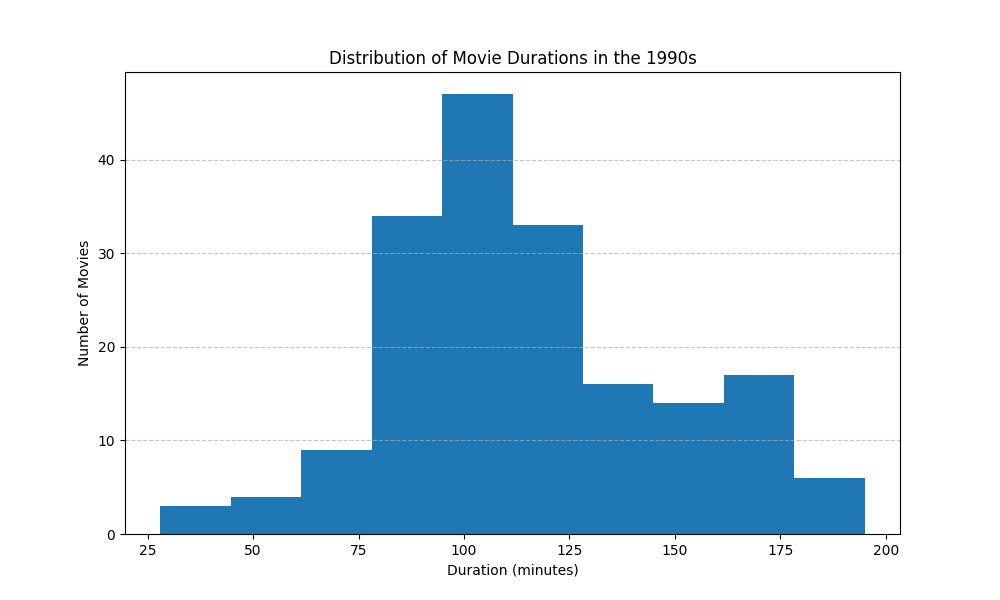
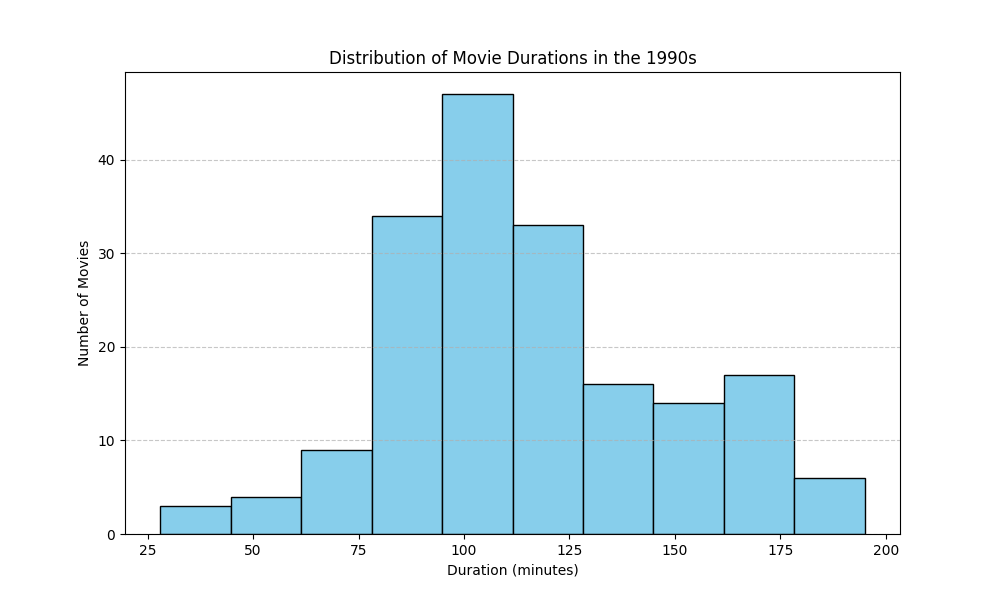
Udating the color of the graphs to skyblue with black edges.

Changed region(s): [[0.155, 0.15, 0.868, 0.9]]

diff --git a/netflix_project.py b/netflix_project.py
@@ -27,7 +27,7 @@ plt.show()
 
 # Visualize the duration column to see the distribution of the 1990s decade
 plt.figure(figsize=(10, 6))
-plt.hist(movies_90s_filter['duration'])
+plt.hist(movies_90s_filter['duration'],color='skyblue', edgecolor='black')
 plt.title('Distribution of Movie Durations in the 1990s')
 plt.xlabel('Duration (minutes)')
 plt.ylabel('Number of Movies')
@@ -39,7 +39,7 @@ plt.show()
 mov_rel_2010s = np.logical_and(netflix_df['release_year'] >= 2010, netflix_df['release_year'] < 2020)
 movies_2010s_filter = netflix_df[np.logical_and(mov_rel_2010s, movies_1990s)]
 plt.figure(figsize=(10, 6))
-plt.hist(movies_2010s_filter['duration'])
+plt.hist(movies_2010s_filter['duration'],color='skyblue', edgecolor='black')
 plt.title('Distribution of Movie Durations in the 2010s')
 plt.xlabel('Duration (minutes)')
 plt.ylabel('Number of Movies')
@@ -63,7 +63,7 @@ print(short_movies_count)
 
 # visualizing the total number of TV Shows and Movies
 plt.figure(figsize=(8, 6))
-ax = sns.countplot(x='type', data=netflix_df)
+ax = sns.countplot(x='type', data=netflix_df, color='skyblue', edgecolor='black')
 plt.title('Total Number of TV Shows and Movies on Netflix')
 plt.xlabel('Content Type')
 plt.ylabel('Count')
